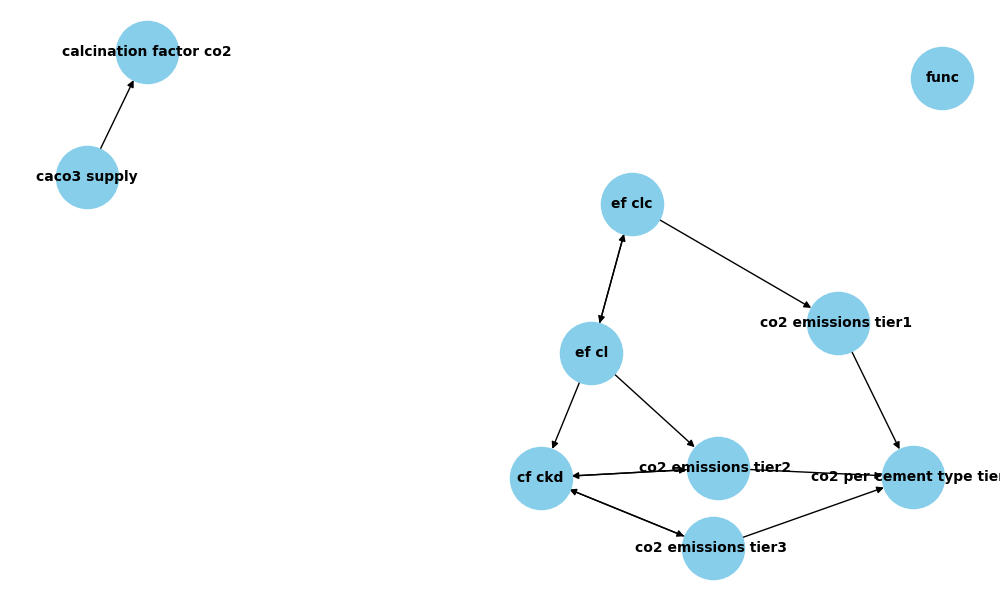
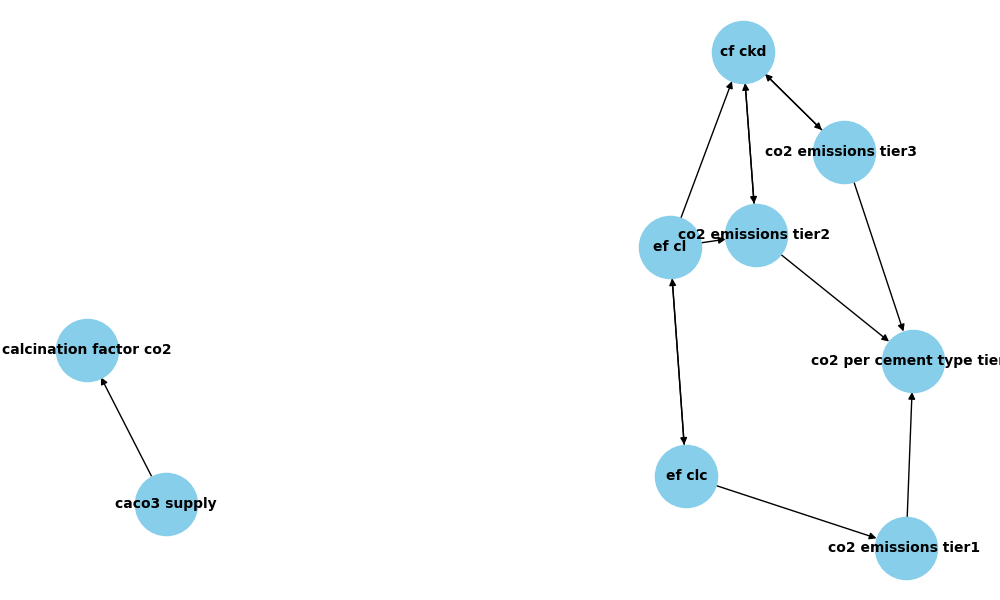
beautifying

diff --git a/main.py b/main.py
@@ -28,6 +28,9 @@ def main():
     #     print()
 
 def parse_python_file(file_path, naming_convention):
+    """
+    Parse the Python file and extract function names, parameters, and return values.
+    """
     with open(file_path, 'r') as file:
         code = file.read()
 
@@ -58,53 +61,29 @@ def parse_python_file(file_path, naming_convention):
 
     return functions
 
-def parse_python_file_old(file_path):
-    with open(file_path, 'r') as file:
-        code = file.read()
-
-    tree = ast.parse(code)
-
-    functions = []
-
-    def traverse(node):
-        if isinstance(node, ast.FunctionDef):
-            function_name = node.name
-            parameters = [arg.arg for arg in node.args.args]
-            returns = []
-            for statement in node.body:
-                if isinstance(statement, ast.Return):
-                    if isinstance(statement.value, ast.Name):
-                        returns.append(statement.value.id)
-                    elif isinstance(statement.value, ast.Tuple):
-                        returns.extend([elt.id for elt in statement.value.elts if isinstance(elt, ast.Name)])
-            functions.append((function_name, parameters, returns))
-
-        for child in ast.iter_child_nodes(node):
-            traverse(child)
-
-    traverse(tree)
-
-    return functions
-
-
-
 def identify_relationships(functions):
+    """
+    Identify relationships between functions based on shared input parameters and return values.
+    """
     relationships = {}
     for name, parameters, returns in functions:
         relationships[name] = {'parameters': set(parameters), 'returns': set(returns)}
 
     for name, info in relationships.items():
-        for other_name, other_info in relationships.items():
-            if name != other_name:
-                if info['parameters'] & other_info['parameters'] or info['returns'] & other_info['parameters']:
+        for compare_func_name, compare_func_info in relationships.items():
+            if name != compare_func_name:
+                if info['parameters'] & compare_func_info['parameters'] or info['returns'] & compare_func_info['parameters']:
                     # Establishing a relationship between functions
                     if 'related_functions' not in info:
                         info['related_functions'] = set()
-                    info['related_functions'].add(other_name)
+                    info['related_functions'].add(compare_func_name)
 
     return relationships
 
 def visualize_relationships(relationships, output_file):
+    """
+    Visualize the relationships between functions as a graph and save it as a PNG file.
+    """
     G = nx.DiGraph()
 
     # Add nodes for each function
@@ -119,10 +98,10 @@ def visualize_relationships(relationships, output_file):
 
     # Visualize the graph
     plt.figure(figsize=(10, 6))
-    pos = nx.spring_layout(G,k=0.35, iterations=25)  # Layout algorithm
+    pos = nx.spring_layout(G, k=0.4, iterations=25)  # Layout algorithm
     nx.draw(G, pos, with_labels=True, node_size=2000, node_color="skyblue", font_size=10, font_weight="bold")
     plt.title("Function Relationships Graph")
-    plt.savefig(output_file)  # Save the plot as a PNG file
+    plt.savefig(output_file)  # Save the plot as a PNG file on the output_file path
     plt.close()
 
 if __name__ == '__main__':
